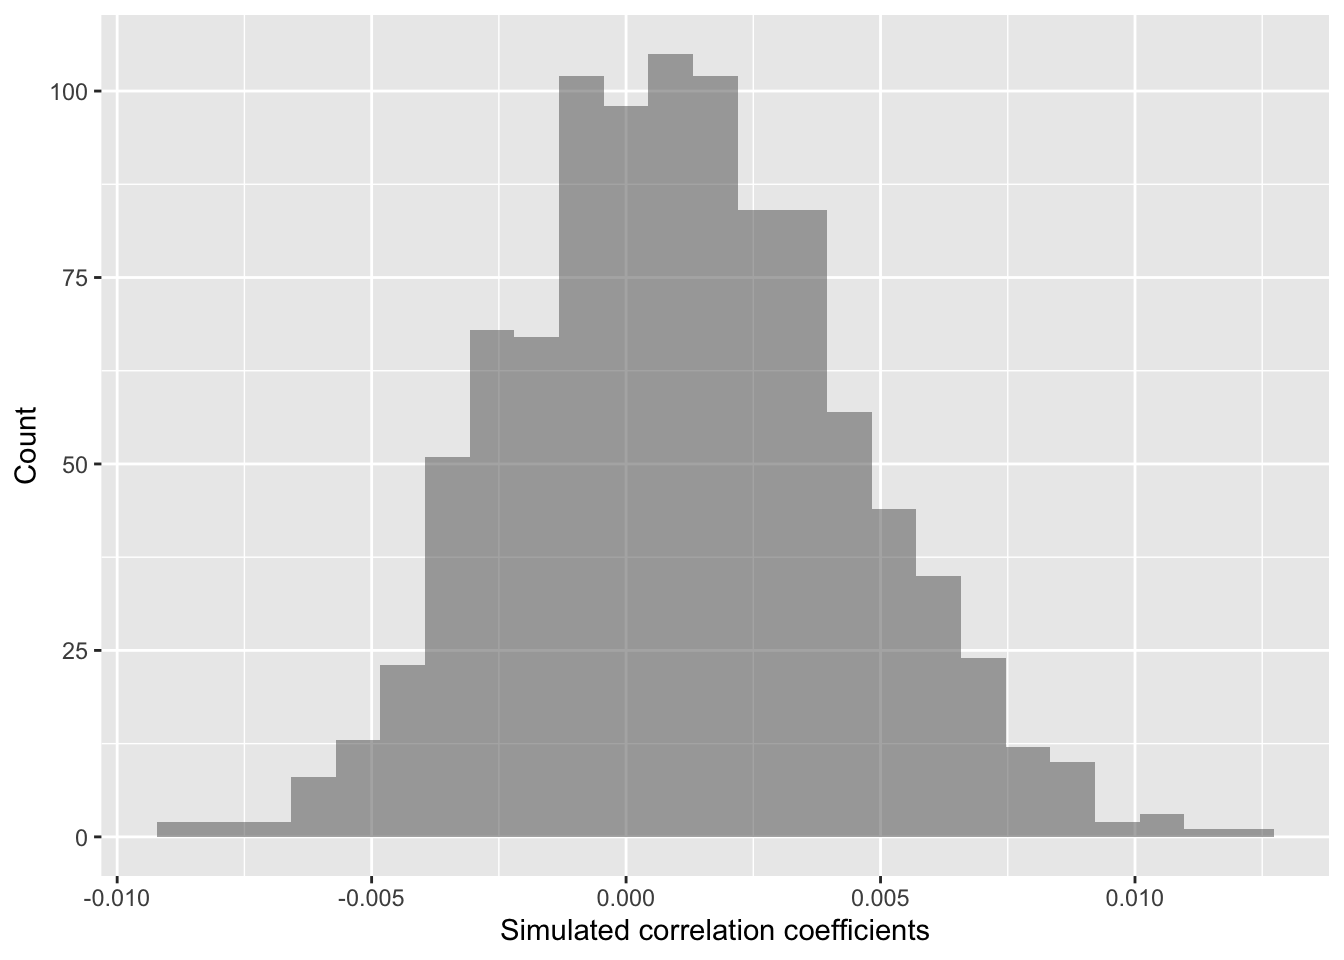
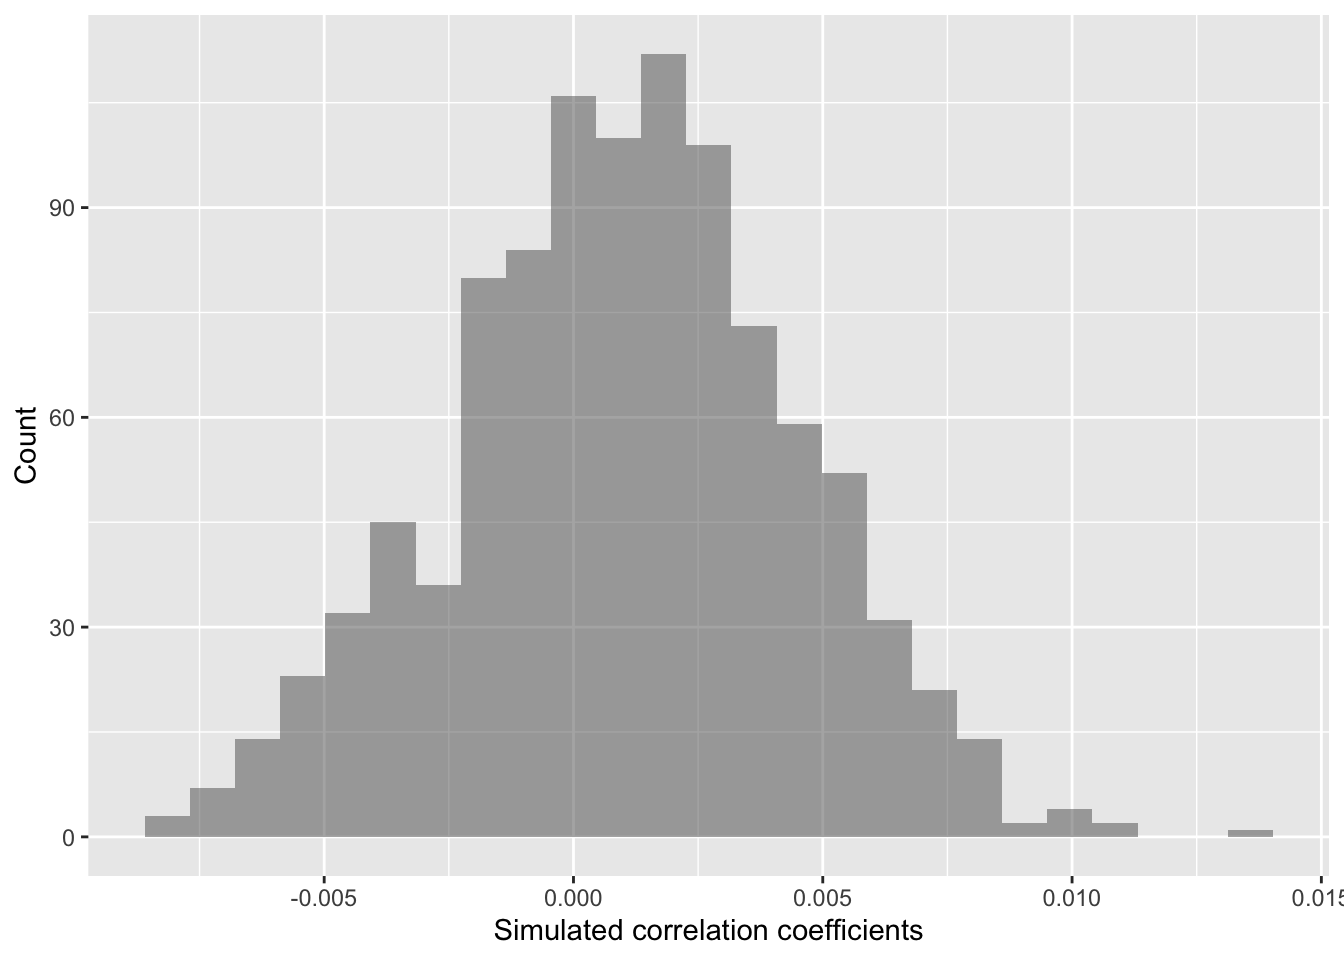
final fix hopefully for wk 12 sound

diff --git a/docs/bioaco.html b/docs/bioaco.html
@@ -353,7 +353,7 @@ $(document).ready(function () {
 <h1><span class="header-section-number">1</span> Accessing the
 assignment</h1>
 <p>Please navigate to the assignment <a
-href="https://posit.cloud/spaces/323650/content/5199743">Acoustic</a> in
+href="https://posit.cloud/spaces/323650/content/5199744">Acoustic</a> in
 the <a
 href="https://sso.posit.cloud/pomona?redirect=https%3A%2F%2Fposit.cloud%2Fspaces%2F323650%2Fjoin%3Faccess_code%3D_klYqlJJLC2qolGKC7GmdPDI6m-xGiZnJ7wesTsQ">ConBio
 SP2023 workspace</a>. In the <code>Files</code> pane (typically, bottom
@@ -598,13 +598,13 @@ names(randomizing_diffs)[1] &lt;- &quot;DiffMeans&quot; # change the name of the
 
 # View first few rows of data
 head(randomizing_diffs)</code></pre>
-<pre><code>##    DiffMeans
-## 1  40.763169
-## 2 146.610098
-## 3 182.855740
-## 4  -7.360132
-## 5 -36.689101
-## 6  87.663997</code></pre>
+<pre><code>##     DiffMeans
+## 1  -68.529942
+## 2 -209.458568
+## 3   76.695019
+## 4   -2.194099
+## 5   18.071384
+## 6  115.530969</code></pre>
 <p>Now we can visualize the distribution of simulated differences in the
 mean values of <code>ChangVar</code> at the Big and Open sites versus
 our observed difference in means. Note that the observed difference was
@@ -687,7 +687,7 @@ when we shuffle our data?</p>
 <pre class="r"><code>quantiles_cor &lt;- qdata( ~ cor, p = c(0.025, 0.975), data=randomizing_cor) # calculate the 2.5% and 97.5% quantiles in our simulated correlation coefficient data (note that 97.5-2.5 = 95!)
 quantiles_cor # display the quantiles</code></pre>
 <pre><code>##         2.5%        97.5% 
-## -0.004898955  0.007722658</code></pre>
+## -0.005747058  0.007560330</code></pre>
 <p>The values above give us a 95% confidence interval estimate for our
 correlation coefficient!</p>
 <p>Do we clearly see that our correlation coefficient distribution does

diff --git a/docs/Sound.html b/docs/Sound.html
@@ -9,12 +9,11 @@
 <meta http-equiv="X-UA-Compatible" content="IE=EDGE" />
 
 
-<meta name="author" content="" />
 
 
 <title>Acoustic ecology - studying environments through sound</title>
 
-<script src="site_libs/header-attrs-2.14/header-attrs.js"></script>
+<script src="site_libs/header-attrs-2.13/header-attrs.js"></script>
 <script src="site_libs/jquery-3.6.0/jquery-3.6.0.min.js"></script>
 <meta name="viewport" content="width=device-width, initial-scale=1" />
 <link href="site_libs/bootstrap-3.3.5/css/flatly.min.css" rel="stylesheet" />
@@ -477,7 +476,11 @@ library(readr)</code></pre>
 <div id="waveforms" class="section level2" number="3.1">
 <h2><span class="header-section-number">3.1</span> Waveforms</h2>
 <p>Let’s pull in one of the recorded files from the BFS. You can play
-the recording below.</p>
+the recording below. <strong>NOTE</strong>: Make sure that you use the
+code in the <code>Acoustic.R</code> file (or the code in its entirety at
+the bottom of this tutorial page) because the sound recording is in a
+different location on <code>posit.cloud</code> than what is shown
+here!</p>
 <audio controls="">
 <source src="20220313_063000.WAV" type="audio/wav"/>
 </audio>
